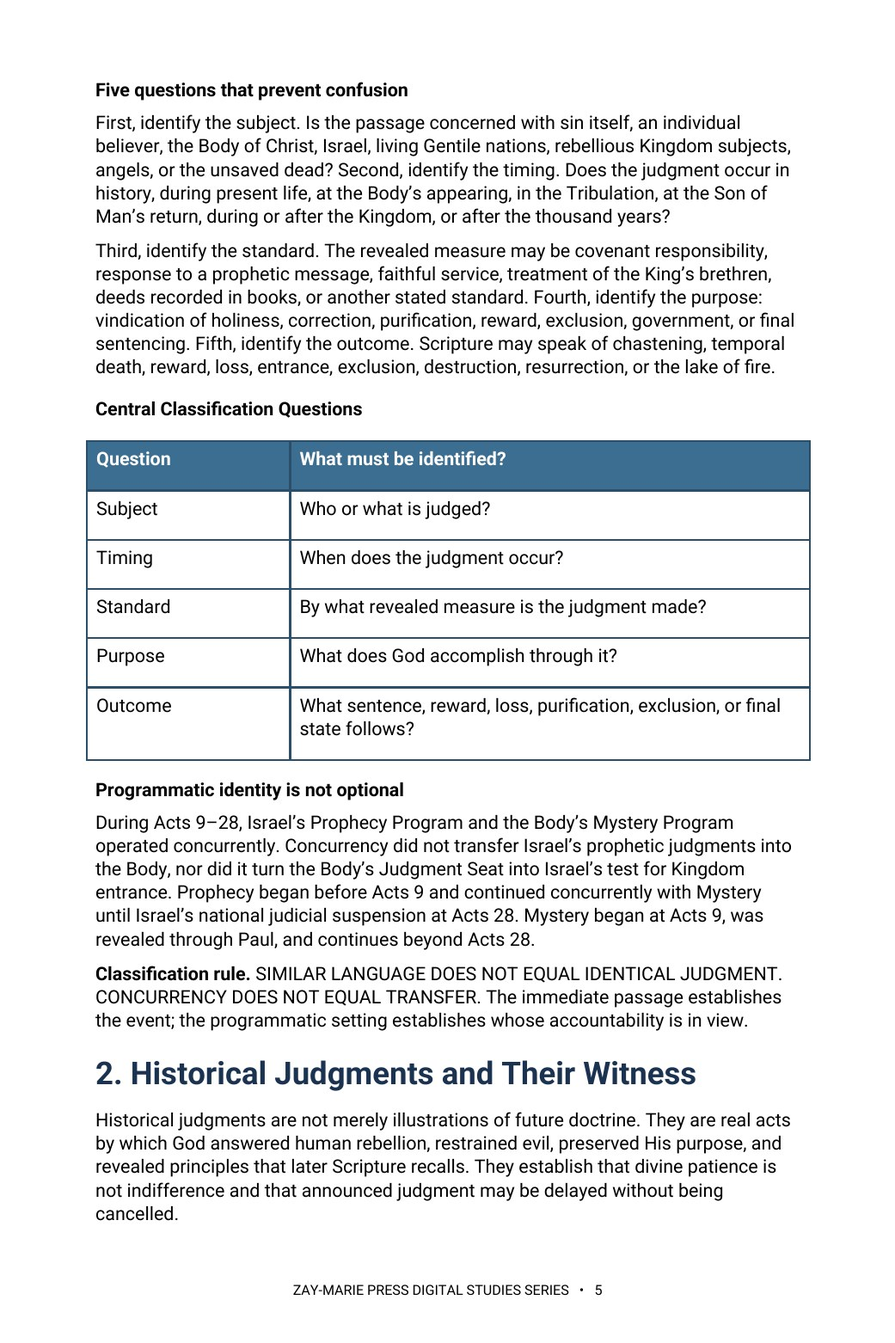
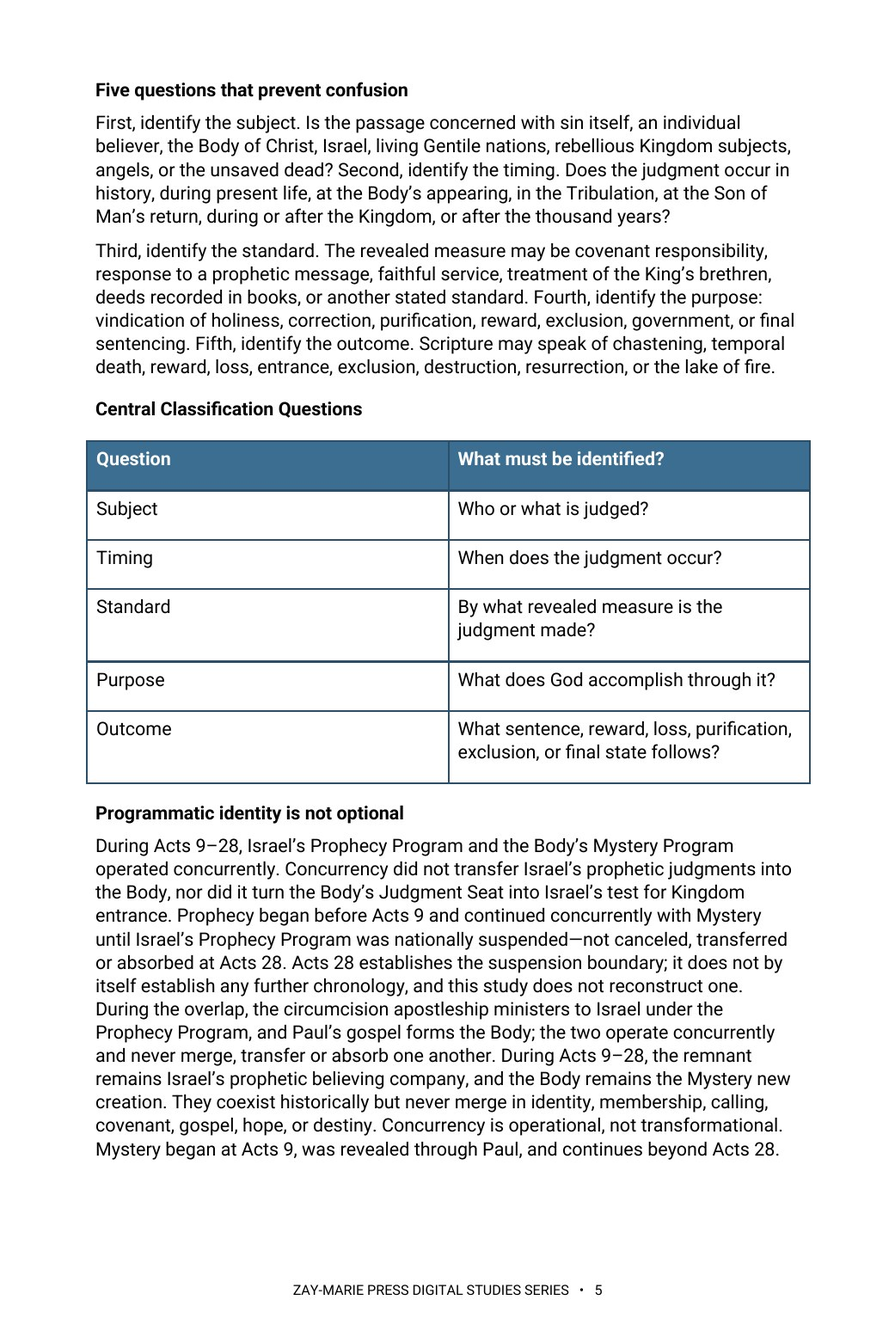
Study 31: rebuild at 10 pt, 19 pages; line-232 Rule 19 fix and retrofit wording; website counts and previews
Claude-Session: https://claude.ai/code/session_01HC7bs9KYP2scp4hCL6DkTp

Changed region(s): [[0.0922, 0.338, 0.8915, 0.9219]]

diff --git a/study-31-the-judgments-of-scripture.html b/study-31-the-judgments-of-scripture.html
@@ -2,12 +2,12 @@
 <html lang="en"><head><meta charset="utf-8"><meta name="viewport" content="width=device-width,initial-scale=1"><title>The Judgments of Scripture | Zay-Marie Press</title><meta name="description" content="Distinguish the major judgments of Scripture by their subjects, timing, standards, purposes, and outcomes."><link rel="stylesheet" href="styles.css?v=20260928-8"><link rel="icon" type="image/png" href="assets/zay-marie-press-favicon.png"><style>
 .study-detail-page{background:#fff;color:#252525}.detail-hero{background:linear-gradient(135deg,#f8f5ec,#e3ece2);padding:58px 0}.detail-hero-grid{display:grid;grid-template-columns:minmax(250px,.72fr) minmax(0,1.28fr);gap:58px;align-items:center}.detail-cover{max-width:390px;margin:auto}.detail-cover img{display:block;width:100%;height:auto;box-shadow:0 14px 36px rgba(8,45,69,.18)}.detail-hero h1{font-size:clamp(2.7rem,5vw,4.7rem);line-height:1.02;margin:8px 0 10px;color:#143823}.detail-subtitle{font-family:Georgia,serif;font-size:1.35rem;font-weight:700;color:#082d45;margin:0 0 7px}.detail-kicker{font-family:Georgia,serif;font-style:italic;font-size:1.05rem;color:#4a4a44;margin:0 0 22px}.detail-copy{font-size:1.08rem;line-height:1.65;max-width:760px}.detail-buyline{display:flex;align-items:center;gap:18px;flex-wrap:wrap;margin-top:25px}.detail-price{font-family:Georgia,serif;font-size:2rem;font-weight:700;color:#143823}.detail-format,.preview-card .page-no{font-family:Arial,sans-serif;font-size:.76rem;font-weight:700;letter-spacing:.1em;text-transform:uppercase;color:#176b3a}.detail-button{display:inline-block;background:#176b3a;color:#fff;padding:13px 22px;font-family:Arial,sans-serif;font-size:.8rem;font-weight:700;letter-spacing:.07em;text-transform:uppercase}.detail-button.pending{opacity:.72;cursor:default}.detail-section{padding:66px 0}.detail-section.soft{background:#f6f7f2}.detail-section.cream{background:#faf8f2}.detail-section h2{color:#143823;margin:6px 0 18px;font-size:clamp(2rem,3.4vw,3rem)}.detail-section .lead{max-width:920px;font-size:1.1rem;line-height:1.62}.study-distinction{max-width:920px;margin-top:28px;margin-bottom:28px;padding:26px 28px;background:#fff;border:1px solid #d8d1bf;border-left:4px solid #b8871c}.study-distinction h3{margin:0 0 10px;color:#143823}.study-distinction p{margin:0 0 14px;line-height:1.62}.study-distinction a{font-family:Arial,sans-serif;font-weight:700;color:#176b3a;text-decoration:none}.study-points{display:grid;grid-template-columns:repeat(3,1fr);gap:18px;margin-top:28px;margin-bottom:28px}.study-point,.scripture-card,.preview-card,.include-item{background:#fff;border:1px solid var(--line);text-align:left}.study-point{border-top:3px solid #176b3a;padding:22px}.study-point h3{color:#143823;margin:0 0 8px;font-size:1.2rem}.study-point p,.scripture-card p,.preview-card p,.include-item p{margin:0;line-height:1.55}.scripture-grid{display:grid;grid-template-columns:repeat(4,1fr);gap:14px;margin-top:24px;margin-bottom:24px}.scripture-card{padding:22px 20px;color:#143823}.scripture-card h3{margin:0 0 9px;font-family:Georgia,serif;font-size:1rem;line-height:1.35}.scripture-card p{font-size:.94rem;color:#45453f}.excerpt{max-width:900px;margin:28px auto;border-left:4px solid #b8871c;padding:10px 0 10px 28px}.excerpt blockquote{font-family:Georgia,serif;font-size:clamp(1.45rem,2.5vw,2rem);line-height:1.45;color:#143823;margin:0 0 16px}.excerpt p{line-height:1.6;margin:0}.preview-grid{display:grid;grid-template-columns:repeat(2,1fr);gap:20px;margin-top:28px;margin-bottom:28px}.preview-card{padding:18px;min-height:210px;box-shadow:0 7px 20px rgba(20,40,25,.05)}.preview-image-link{display:block;margin:0 0 18px}.preview-image-link img{display:block;width:100%;height:auto;border:1px solid #d8d1bf;box-shadow:0 8px 22px rgba(20,40,25,.1);transition:transform .18s ease,box-shadow .18s ease}.preview-image-link:hover img{transform:translateY(-2px);box-shadow:0 11px 28px rgba(20,40,25,.16)}.preview-card h3{color:#143823;margin:8px 0 10px}.preview-instruction{margin:10px 0 0;font-family:Arial,sans-serif;font-size:.78rem;letter-spacing:.04em;color:#5b5b55}.includes-grid{display:grid;grid-template-columns:repeat(4,1fr);gap:14px;margin-top:26px}.include-item{padding:22px 20px;color:#143823}.include-item h3{margin:0 0 9px;font-family:Arial,sans-serif;font-size:.86rem;line-height:1.35;letter-spacing:.02em}.include-item p{font-size:.94rem;color:#45453f}.final-buy{background:#082d45;color:#fff;border-top:4px solid #b8871c;padding:42px 48px;display:grid;grid-template-columns:1fr auto;gap:36px;align-items:center}.final-buy .eyebrow,.final-buy h2,.final-buy .detail-price{color:#fff}.final-buy h2{margin:7px 0 6px}.final-buy p{margin:0}.final-offer{text-align:center}.back-link{display:inline-block;margin-top:18px;color:#143823;font-family:Arial,sans-serif;font-weight:700;text-decoration:none}.preview-lightbox{position:fixed;inset:0;z-index:10000;display:none;align-items:flex-start;justify-content:center;background:rgba(8,22,16,.88);padding:24px;overflow:auto}.preview-lightbox.open{display:flex}.preview-lightbox img{display:block;width:auto;height:auto;max-width:none;box-shadow:0 18px 55px rgba(0,0,0,.4);background:#fff}.preview-lightbox-close{position:fixed;top:18px;right:24px;z-index:10001;width:46px;height:46px;border:1px solid rgba(255,255,255,.65);border-radius:50%;background:rgba(0,0,0,.55);color:#fff;font:32px/1 Arial,sans-serif;cursor:pointer}@media(max-width:900px){.detail-hero-grid{grid-template-columns:1fr;gap:34px}.detail-cover{max-width:330px}.study-points{grid-template-columns:repeat(2,1fr)}.scripture-grid,.includes-grid{grid-template-columns:repeat(2,1fr)}.preview-grid,.final-buy{grid-template-columns:1fr}.final-offer{text-align:left}}@media(max-width:560px){.detail-hero{padding:42px 0}.detail-section{padding:50px 0}.study-points,.scripture-grid,.includes-grid{grid-template-columns:1fr}.final-buy{padding:32px 24px}.detail-buyline{align-items:flex-start;flex-direction:column;gap:8px}.preview-lightbox{padding:58px 10px 24px}.preview-lightbox img{width:100%;max-width:100%;height:auto}}</style></head><body class="study-detail-page">
 <header class="site-header"><div class="wrap nav"><a class="logo" href="index.html" aria-label="Zay-Marie Press home"><img src="assets/zay-marie-press-logo-hq.png" alt="Zay-Marie Press" width="420" height="238"></a><button class="menu-toggle" type="button" aria-expanded="false" aria-controls="primary-nav">MENU</button><nav aria-label="Primary navigation" class="primary-nav" id="primary-nav"><a href="index.html">HOME</a><a href="books.html">BOOKS</a><a href="series.html">SERIES</a><a class="active" aria-current="page" href="digital-studies.html">DIGITAL STUDIES</a><a href="biblical-hermeneutics-course.html">COURSE</a><a href="about.html">ABOUT</a><a href="resources.html">RESOURCES</a><a href="contact.html">CONTACT</a></nav></div></header><main>
-<section class="detail-hero"><div class="wrap detail-hero-grid"><div class="detail-cover"><picture><source srcset="assets/study-31-cover.webp" type="image/webp"><img src="assets/study-31-cover.jpg" alt="The Judgments of Scripture - Study 31 cover"></picture></div><div><div class="eyebrow">STUDY 31 · DIGITAL STUDY</div><h1>The Judgments of Scripture</h1><p class="detail-subtitle">Their Subjects, Timing, Standards, Purposes, and Outcomes</p><p class="detail-kicker">A comparative biblical study designed to keep distinct judgments distinct</p><p class="detail-copy">Scripture presents many acts and occasions of divine judgment, but it does not combine them into one undifferentiated event. This study supplies a clear method for identifying who or what is judged, when the judgment occurs, the governing standard, its purpose, and its outcome.</p><p class="detail-copy">Compare historical judgments, the Cross, believer self-judgment and discipline, the Judgment Seat of Christ, Israel’s prophetic accountability, the nations, angels, Kingdom judgments, and the Great White Throne without transferring features from one passage to another.</p><div class="detail-buyline"><span class="detail-price">$5.99</span><span class="detail-format">Digital PDF · 18 Pages</span><span class="detail-button pending" aria-disabled="true">Checkout Coming Soon</span></div></div></div></section>
+<section class="detail-hero"><div class="wrap detail-hero-grid"><div class="detail-cover"><picture><source srcset="assets/study-31-cover.webp" type="image/webp"><img src="assets/study-31-cover.jpg" alt="The Judgments of Scripture - Study 31 cover"></picture></div><div><div class="eyebrow">STUDY 31 · DIGITAL STUDY</div><h1>The Judgments of Scripture</h1><p class="detail-subtitle">Their Subjects, Timing, Standards, Purposes, and Outcomes</p><p class="detail-kicker">A comparative biblical study designed to keep distinct judgments distinct</p><p class="detail-copy">Scripture presents many acts and occasions of divine judgment, but it does not combine them into one undifferentiated event. This study supplies a clear method for identifying who or what is judged, when the judgment occurs, the governing standard, its purpose, and its outcome.</p><p class="detail-copy">Compare historical judgments, the Cross, believer self-judgment and discipline, the Judgment Seat of Christ, Israel’s prophetic accountability, the nations, angels, Kingdom judgments, and the Great White Throne without transferring features from one passage to another.</p><div class="detail-buyline"><span class="detail-price">$5.99</span><span class="detail-format">Digital PDF · 19 Pages</span><span class="detail-button pending" aria-disabled="true">Checkout Coming Soon</span></div></div></div></section>
 <section class="detail-section"><div class="wrap"><div class="eyebrow">ABOUT THIS STUDY</div><h2>Why Must the Judgments Be Distinguished?</h2><p class="lead">The Judge is always righteous, but Scripture assigns different judgments to different subjects, times, standards, purposes, and outcomes. A judgment of living nations at the return of the Son of Man is not the final judgment of the dead after the thousand years. An evaluation for reward or loss is not a trial to determine whether Christ’s finished work was sufficient.</p><p class="lead">This study organizes the major judgment complexes of Scripture so readers can recognize genuine similarities without collapsing distinct events, audiences, or divine purposes.</p><p class="lead">This is not a study of crowns and rewards in their own passages, which Study 33 examines directly, nor of Paul’s own Day-of-Christ language, which Study 8 defines on its own terms, nor of the believer’s security under grace, which Study 46 argues from a different set of texts. Its task is broader: to classify every major judgment complex in Scripture by subject, time, standard, and outcome, so that no two of them are collapsed into a single undifferentiated “judgment.”</p><div class="study-distinction"><h3>How These Studies Relate</h3><p>Study 31 classifies Scripture’s judgments by their subjects, timing, standards, purposes, and outcomes.</p><p><a href="study-33-the-crowns-of-scripture.html">Study 33 — The Crowns of Scripture</a> Examine crowns and rewards in their own passages; this helps locate reward language within the right evaluation instead of treating every crown as salvation or condemnation.</p><p><a href="study-08-the-day-of-christ.html">Study 8 — The Day of Christ</a> Read Paul’s Day-of-Christ expressions before attaching an entire judgment scheme to them; the distinction keeps explicit wording and related future teaching in proper relation.</p><p><a href="study-46-secure-in-christ.html">Study 46 — Secure in Christ</a> See how the distinction between a lost reward and a lost standing, drawn here from 1 Corinthians 3:11–15 and 2 Timothy 2:12, secures the believer’s standing while keeping reward in its own place.</p><p class="connection-guide-link"><a href="study-connections.html#study-31">Explore the full connection guide for Study 31 →</a></p></div><div class="cross-strand-note"><p class="cross-strand-label">FROM THE PARABLES STRAND</p><p>The Sheep and the Goats narrates one of the judgments this study classifies — read it to see that judgment in its own setting.</p><p><a href="parable-31-the-sheep-and-the-goats.html">The Sheep and the Goats</a></p></div></div></section>
 <section class="detail-section soft"><div class="wrap"><div class="eyebrow">WHAT YOU’LL STUDY</div><h2>Use Five Questions to Identify Every Judgment</h2><div class="study-points"><div class="study-point"><h3>Subject</h3><p>Identify who or what is being judged before drawing conclusions from the passage.</p></div><div class="study-point"><h3>Timing</h3><p>Place each judgment within its stated historical, prophetic, or Mystery setting.</p></div><div class="study-point"><h3>Standard</h3><p>Determine the revealed measure by which the judgment is administered.</p></div><div class="study-point"><h3>Purpose</h3><p>Ask what God accomplishes through the judgment in its own context.</p></div><div class="study-point"><h3>Outcome</h3><p>Trace the sentence, reward, loss, discipline, exclusion, or final state that follows.</p></div><div class="study-point"><h3>Programmatic Setting</h3><p>Place each judgment passage within Prophecy or Mystery by the subject, timing, and standard the text states.</p></div></div></div></section>
 <section class="detail-section cream"><div class="wrap"><div class="eyebrow">KEY SCRIPTURES</div><h2>Compare the Major Judgment Passages</h2><div class="scripture-grid"><div class="scripture-card"><h3>Romans 3:21–26</h3><p>God’s righteousness displayed at the Cross, where sin was judged in Christ.</p></div><div class="scripture-card"><h3>1 Corinthians 3:10–15</h3><p>The believer’s work tested for reward or loss while salvation remains secure.</p></div><div class="scripture-card"><h3>2 Corinthians 5:10</h3><p>The Body’s future appearance before the Judgment Seat of Christ.</p></div><div class="scripture-card"><h3>Matthew 25:31–46</h3><p>Living nations judged when the Son of Man comes in glory.</p></div><div class="scripture-card"><h3>Daniel 7 and 12</h3><p>Prophetic judgment, resurrection, and Kingdom accountability.</p></div><div class="scripture-card"><h3>1 Corinthians 6:2–3</h3><p>The future judgment of the world and angels.</p></div><div class="scripture-card"><h3>Revelation 20:11–15</h3><p>The Great White Throne after the thousand years.</p></div><div class="scripture-card"><h3>Romans 8:1</h3><p>No condemnation for those who are in Christ Jesus.</p></div></div></div></section>
 <section class="detail-section"><div class="wrap"><div class="eyebrow">FROM THE STUDY</div><h2>Similar Language Does Not Establish an Identical Judgment</h2><div class="excerpt"><blockquote>“Never identify a judgment by one shared word alone.”</blockquote><p>Fire, books, works, appearing, reward, and judgment may occur in different passages without making those passages one event. The immediate context and programmatic setting establish whose accountability is in view.</p></div></div></section>
 <section class="detail-section soft"><div class="wrap"><div class="eyebrow">A LOOK INSIDE</div><h2>Preview the Study Before You Purchase</h2><p class="preview-instruction">Click any page to enlarge it for reading.</p><div class="preview-grid"><div class="preview-card"><a class="preview-image-link" data-preview-lightbox href="assets/study-31-page-2.jpg"><img src="assets/study-31-page-2.jpg" alt="Study 31 interior preview — page 2, table of contents"></a><div class="page-no">Page 2</div><h3>Table of Contents</h3><p>See the full structure of the study, from the introduction through the final synthesis.</p></div><div class="preview-card"><a class="preview-image-link" data-preview-lightbox href="assets/study-31-page-3.jpg"><img src="assets/study-31-page-3.jpg" alt="Study 31 interior preview — page 3, what you will learn and study outline"></a><div class="page-no">Page 3</div><h3>What You Will Learn</h3><p>Begin with the outcomes you will work toward and the passages the study traces, from the Cross to the Great White Throne.</p></div><div class="preview-card"><a class="preview-image-link" data-preview-lightbox href="assets/study-31-page-5.jpg"><img src="assets/study-31-page-5.jpg" alt="Study 31 interior preview — page 5, five controlling questions and classification table"></a><div class="page-no">Page 5</div><h3>The Five Questions</h3><p>See the five controlling questions and the classification table the study applies to every judgment passage.</p></div></div></div></section>
-<section class="detail-section"><div class="wrap"><div class="eyebrow">WHAT’S INCLUDED</div><h2>A Focused Study Built for<br>Understanding and Teaching</h2><div class="includes-grid"><div class="include-item"><h3>18-Page Biblical Study</h3><p>A detailed comparative treatment without collapsing distinct judgment passages.</p></div><div class="include-item"><h3>Ten Teaching Sections</h3><p>Move from historical judgment and the Cross through final judgment.</p></div><div class="include-item"><h3>Five-Question Method</h3><p>Identify subject, timing, standard, purpose, and outcome in every passage.</p></div><div class="include-item"><h3>Comparative Tables</h3><p>Review the major judgments through clear, high-contrast reference charts.</p></div><div class="include-item"><h3>Scripture-Tracing Exercise</h3><p>Classify central judgment passages using the same diagnostic questions.</p></div><div class="include-item"><h3>Review Questions</h3><p>Test both biblical knowledge and the ability to preserve distinctions.</p></div><div class="include-item"><h3>Teaching Outline</h3><p>A ready outline for presenting the doctrine clearly and responsibly.</p></div><div class="include-item"><h3>Guided Further Study</h3><p>Instructions and grouped passages help readers extend the study independently.</p></div></div></div></section>
-<section class="detail-section cream"><div class="wrap"><div class="final-buy"><div><div class="eyebrow">STUDY 31 · DIGITAL STUDY</div><h2>The Judgments of Scripture</h2><p>Digital PDF · 18 Pages · For personal use</p></div><div class="final-offer"><div class="detail-price">$5.99</div><span class="detail-button pending" aria-disabled="true">Checkout Coming Soon</span></div></div><a class="back-link" href="digital-studies.html">← Back to All Digital Studies</a></div></section><section class="study-method-course-bridge"><div class="wrap"><div class="study-method-course-panel"><div><div class="eyebrow">BUILD THE INTERPRETIVE METHOD</div><h2>Want More Than a Focused Study?</h2><p>Digital Studies examine particular biblical subjects and difficult passages. The 40-lesson Biblical Hermeneutics course teaches a complete, repeatable method for establishing meaning in context, determining proper assignment, and making responsible application.</p></div><a class="btn btn-primary" href="biblical-hermeneutics-course.html">BIBLICAL HERMENEUTICS COURSE</a></div></div></section></main>
+<section class="detail-section"><div class="wrap"><div class="eyebrow">WHAT’S INCLUDED</div><h2>A Focused Study Built for<br>Understanding and Teaching</h2><div class="includes-grid"><div class="include-item"><h3>19-Page Biblical Study</h3><p>A detailed comparative treatment without collapsing distinct judgment passages.</p></div><div class="include-item"><h3>Ten Teaching Sections</h3><p>Move from historical judgment and the Cross through final judgment.</p></div><div class="include-item"><h3>Five-Question Method</h3><p>Identify subject, timing, standard, purpose, and outcome in every passage.</p></div><div class="include-item"><h3>Comparative Tables</h3><p>Review the major judgments through clear, high-contrast reference charts.</p></div><div class="include-item"><h3>Scripture-Tracing Exercise</h3><p>Classify central judgment passages using the same diagnostic questions.</p></div><div class="include-item"><h3>Review Questions</h3><p>Test both biblical knowledge and the ability to preserve distinctions.</p></div><div class="include-item"><h3>Teaching Outline</h3><p>A ready outline for presenting the doctrine clearly and responsibly.</p></div><div class="include-item"><h3>Guided Further Study</h3><p>Instructions and grouped passages help readers extend the study independently.</p></div></div></div></section>
+<section class="detail-section cream"><div class="wrap"><div class="final-buy"><div><div class="eyebrow">STUDY 31 · DIGITAL STUDY</div><h2>The Judgments of Scripture</h2><p>Digital PDF · 19 Pages · For personal use</p></div><div class="final-offer"><div class="detail-price">$5.99</div><span class="detail-button pending" aria-disabled="true">Checkout Coming Soon</span></div></div><a class="back-link" href="digital-studies.html">← Back to All Digital Studies</a></div></section><section class="study-method-course-bridge"><div class="wrap"><div class="study-method-course-panel"><div><div class="eyebrow">BUILD THE INTERPRETIVE METHOD</div><h2>Want More Than a Focused Study?</h2><p>Digital Studies examine particular biblical subjects and difficult passages. The 40-lesson Biblical Hermeneutics course teaches a complete, repeatable method for establishing meaning in context, determining proper assignment, and making responsible application.</p></div><a class="btn btn-primary" href="biblical-hermeneutics-course.html">BIBLICAL HERMENEUTICS COURSE</a></div></div></section></main>
 <div class="preview-lightbox" id="preview-lightbox" role="dialog" aria-modal="true" aria-label="Expanded study preview"><button class="preview-lightbox-close" type="button" aria-label="Close preview">×</button><img id="preview-lightbox-image" alt=""></div><footer class="site-footer"><div class="wrap footer-grid"><div class="footer-about"><h3>Zay-Marie Press</h3><p class="footer-tagline"><em>Where the Bible Means What It Says.</em></p><p>Zay-Marie Press is a Christian theological publisher dedicated to producing doctrinally precise, carefully structured biblical resources that equip pastors, teachers, and serious students with clarity, depth, and Scripture-anchored truth.</p><p><a href="https://zaymariepress.com">zaymariepress.com</a><br><a href="mailto:info@zaymariepress.com">info@zaymariepress.com</a></p></div><div class="footer-column"><h3>Explore</h3><div class="footer-links-stacked"><a href="books.html">Books</a><br><a href="series.html">Series</a><br><a href="biblical-hermeneutics-course.html">Course</a><br><a href="digital-studies.html">Digital Studies</a><br><a href="resources.html">Resources</a><br><a href="bible-book-summaries.html">Bible Book Summaries</a><br><a href="doctrinal-packets.html">Doctrinal Packets</a><br><a href="historical-drift.html">Historical Drift</a><br><a href="about.html">About</a><br><a href="contact.html">Contact</a></div></div><div class="footer-column"><h3>Reader Support</h3><div class="footer-links-stacked"><a href="reader-support.html#faq">FAQ</a><br><a href="reader-support.html#shipping-returns">Shipping &amp; Returns</a><br><a href="reader-support.html#digital-downloads">Digital Downloads</a><br><a href="reader-support.html#contact-support">Contact Support</a></div></div><div class="footer-column"><h3>Acts Overlap</h3><p><strong>Acts Overlap Theology Series</strong></p><p><em>Two Distinct Streams. One Overlap.</em></p><p><a href="series.html">Series Overview</a></p></div></div><div class="wrap footer-bottom">© 2026 Zay-Marie Press. All rights reserved.</div></footer><script src="site.js"></script><script>const lightbox=document.getElementById('preview-lightbox'),lightboxImage=document.getElementById('preview-lightbox-image'),closeLightbox=()=>{lightbox.classList.remove('open');lightboxImage.src='';};document.querySelectorAll('[data-preview-lightbox]').forEach(link=>link.addEventListener('click',event=>{event.preventDefault();lightboxImage.src=link.href;lightboxImage.alt=link.querySelector('img').alt;lightbox.classList.add('open');}));document.querySelector('.preview-lightbox-close').addEventListener('click',closeLightbox);lightbox.addEventListener('click',event=>{if(event.target===lightbox)closeLightbox();});document.addEventListener('keydown',event=>{if(event.key==='Escape')closeLightbox();});</script></body></html>

diff --git a/site.js b/site.js
@@ -62,7 +62,7 @@ const resourceModal=document.querySelector('#resource-modal'), resourceModalTitl
 if(resourceModal&&resourceModalTriggers.length){const closeResourceModal=()=>{resourceModal.hidden=true;document.body.classList.remove('resource-modal-open');lastResourceTrigger?.focus();};resourceModalTriggers.forEach(trigger=>trigger.addEventListener('click',()=>{lastResourceTrigger=trigger;if(resourceModalTitle)resourceModalTitle.textContent=trigger.dataset.title||'Resource';if(resourceModalDescription)resourceModalDescription.textContent=trigger.dataset.description||'';if(resourceModalLink){resourceModalLink.href=trigger.dataset.href||'#';resourceModalLink.textContent=trigger.dataset.linkText||'OPEN RESOURCE';}resourceModal.hidden=false;document.body.classList.add('resource-modal-open');resourceModalClose?.focus();}));resourceModalClose?.addEventListener('click',closeResourceModal);resourceModal.addEventListener('click',e=>{if(e.target===resourceModal)closeResourceModal();});document.addEventListener('keydown',e=>{if(e.key==='Escape'&&!resourceModal.hidden)closeResourceModal();});}
 
 /* Display the verified final-PDF page count at the primary purchase decision point. */
-const digitalStudyPageCounts={1:20,2:19,3:16,4:17,5:15,6:15,7:14,8:13,9:15,10:20,11:15,12:15,13:18,14:15,15:15,16:16,17:17,18:18,19:18,20:18,21:16,22:15,23:14,24:16,25:17,26:16,27:16,28:17,29:19,30:18,31:18,32:19,33:18,34:20,35:22,36:20,37:21,38:22,39:22,40:23,41:21,42:17,43:17,44:19,45:19,46:20,47:19,48:18,49:20,50:19,51:20,52:19,53:19,54:17,55:20,56:20,57:20,58:19,59:20,60:15,61:16,62:18,63:17,64:17,65:16,66:16,67:17,68:16,69:17,70:17,71:16};
+const digitalStudyPageCounts={1:20,2:19,3:16,4:17,5:15,6:15,7:14,8:13,9:15,10:20,11:15,12:15,13:18,14:15,15:15,16:16,17:17,18:18,19:18,20:18,21:16,22:15,23:14,24:16,25:17,26:16,27:16,28:17,29:19,30:18,31:19,32:19,33:18,34:20,35:22,36:20,37:21,38:22,39:22,40:23,41:21,42:17,43:17,44:19,45:19,46:20,47:19,48:18,49:20,50:19,51:20,52:19,53:19,54:17,55:20,56:20,57:20,58:19,59:20,60:15,61:16,62:18,63:17,64:17,65:16,66:16,67:17,68:16,69:17,70:17,71:16};
 const digitalStudyMatch=window.location.pathname.match(/\/study-(\d+)-/i);
 const digitalStudyFormat=document.querySelector('.detail-hero .detail-format');
 if(digitalStudyMatch&&digitalStudyFormat){const studyNumber=Number(digitalStudyMatch[1]),pageCount=digitalStudyPageCounts[studyNumber];if(pageCount)digitalStudyFormat.textContent=`Digital PDF · ${pageCount} Pages`;}

diff --git a/CLAUDE.md b/CLAUDE.md
@@ -25,7 +25,7 @@ These are kept in the repo at `controlling-documents/` and are the current versi
 - As of v1.52 (publisher directive, 2026-10-04), §10 fixes the **interior footer** as a single centered line, “ZAY-MARIE PRESS DIGITAL STUDIES SERIES • N” (N is the page number), Roboto, on the same baseline on every interior page, with no footer on the cover, written into this file in the same pass (Master Standard §10 and §22). Studies rebuilt from the Study 52 geometry already carry it (measured centered at the page midpoint). In every study check (Step 1), confirm the footer is centered and on one baseline.
 **`controlling-documents/Digital_Studies_Relationship_Map_v1.39.md`** — records each study's distinct subject, its related studies, the eight priced six-study collections, the Paul's Missionary Journeys cross-reference map, and the five primary catalog categories (currently version 1.39, covers Studies 1–71; update it as new studies publish, bump the version number, rename the file to match, and log the change in its own version-history table — mirroring the Master Standard's `_vX.Y` filename convention). Check a proposed topic against it before recommending or writing a new study. (2026-09-28: the file was missing from this repo despite this note referencing it; replaced from the publisher's copy and bumped v1.15→v1.25 in the same pass. If this note ever again points to a version not present under `controlling-documents/`, ask the publisher for a copy rather than proceeding without the check.)
 - **`controlling-documents/Digital_Studies_Category_Standard_v1.1.md`** — FINAL and binding (publisher, 2026-10-01): the rules for the five primary catalog categories (Foundations, Israel & Prophecy, Body of Christ, Passages, Doctrinal Themes), the ordered decision procedure for new studies, the precedents, all 71 fixed assignments, and the cover-label form for each category. Read it before placing any card or cover label. Do not ask the publisher where a study belongs; apply the procedure and state the result. Only the publisher changes a ruling; then bump this Standard's version and filename, re-letter the cover, and update the Relationship Map.
-- **`controlling-documents/Doctrinal_Upgrade_Retrofit_Plan_v1.127.md`** — working tracker for retrofitting Studies 1–59 to the 2026-10-02 doctrinal upgrade (Framework/PAM v1.1, Master Standard v1.40, Rules 7–17): withdrawn-wording search keys, impact tiers, waves and the per-study method. Read it before continuing the retrofit in any session; update status, bump the version and rename the file as work proceeds.
+- **`controlling-documents/Doctrinal_Upgrade_Retrofit_Plan_v1.128.md`** — working tracker for retrofitting Studies 1–59 to the 2026-10-02 doctrinal upgrade (Framework/PAM v1.1, Master Standard v1.40, Rules 7–17): withdrawn-wording search keys, impact tiers, waves and the per-study method. Read it before continuing the retrofit in any session; update status, bump the version and rename the file as work proceeds.
 - **`controlling-documents/Doctrinal_Packet_Standard_v0.3.md`** — Doctrinal Packet Standard (DRAFT; §7 approved). Governs the separate Doctrinal Packets product strand (5-page interpretive PDFs per Bible book — a print-friendly cover as page 1 plus 4 content pages, $2.99, KJV, pilot: Genesis, live at `packet-genesis.html`, hub `doctrinal-packets.html`; site pages say "5 Pages", cover styles live in `packets.css`, Old Testament blue and New Testament soft pale green, hub listed in Bible order). **Preview rule (publisher directive, 2026-09-29, packets only):** previews show about one page's worth in two cropped views (top of page 1 through the anchor texts; the chart section) — never the exegesis, architecture, Mystery contrast, logic chain, outline, or closing. Master Standard §16/§17 still govern Digital Studies. Bump the version and rename the file as the Standard is finalized.
 - **`controlling-documents/Preview_Page_Spoiler_Retrofit_Audit_v1.4.md`** — working tracker for the Studies 1–60 preview-page conclusion-spoiler retrofit (see the section below). Read it before continuing that audit in any session; update its status fields and changelog, bump the version, and rename the file to match as the audit proceeds — same `_vX.Y` convention as the other controlling documents. As of v1.1, the website-side half was DONE: all 60 studies' "What You'll Study" text was judged against the rule (methodology documented in the file) and 22 points across 11 studies were rewritten and pushed; an unrelated Study 22 content bug (Study 21's content had leaked into it) was also found and fixed. As of v1.2, the publisher supplied Studies 1–60's interior production PDFs and the interior-PDF half was also surveyed (read-only): 10 studies (37, 41, 45, 47, 48, 49, 51, 52, 53, 54) were found to have at least one interior "What You Will Learn" violation, 50 studies were confirmed compliant, and the orphaned `assets/study-45-sanctification-under-grace.docx` (removed from the repo per the publisher in v1.0) was confirmed word-for-word identical to Study 45's actual production interior PDF content. As of v1.3, the publisher supplied editable DOCX sources for all 10 violating studies; all 15 violating points were rewritten and approved, delivered as corrected final PDFs, and — along the way — a second defect was found and fixed (Studies 47 and 48's source DOCX still had an unintegrated cover placeholder despite both being long-published live with real covers; fixed by inserting the existing approved cover art). The website's "What You Will Learn" preview image (`study-NN-page-3.jpg`) was regenerated from the corrected content for all 10 studies and pushed to `main` (commit `cea1859`), verified against a fresh clone. **The website side of this audit is now fully compliant for all 60 studies.** Outstanding: the publisher's purchasable interior PDF files themselves have corrected versions delivered, but distribution to existing purchasers was decided by the publisher on 2026-09-29: silent swap of the files behind the existing downloads, no reissue notice (recorded in the v1.4 changelog entry; the product files are not in this repo).
 

diff --git a/controlling-documents/Doctrinal_Upgrade_Retrofit_Plan_v1.128.md b/controlling-documents/Doctrinal_Upgrade_Retrofit_Plan_v1.128.md
@@ -220,3 +220,4 @@ Working tracker for correcting published studies to the Framework/PAM v1.1, Mast
 - v1.125 (2026-10-04): Study 20 Scripture-Tracing exercise converted from the blank four-column grid to the standard KJV table (Verse, KJV text, What to observe), publisher-approved: nine rows, quoted verses chosen per row, every quotation fetched from bible-api.com (KJV) and matching the known wording; the nine 'What to observe' cues drafted as text-bound prompts and approved; instruction line kept above the table with a one-sentence lead-in. 18 pages (was 15). The study has no Final Synthesis heading, so the layout-only keep-with-next for the imprint runs from the Guided Further Study heading (keepimp.py now takes KEEPFROM). site.js 20:18; previews 2, 3, 4 re-rendered. Held-back KJV items remaining: 21, 25, 28.
 - v1.126 (2026-10-04): Publisher ruling: option 1 on the held-back KJV table item. Studies 19 and 20 stay as converted to the KJV table form; Studies 21, 25 and 28 stay as built (their Scripture-Tracing exercises are not converted). Reason recorded: the Master Standard's Study 52 note says Studies 1–51 are not retrofitted to that pattern, so the conversion is not required; it had been carried as a held-back Wave 5 item. Item closed by choice. Remaining Wave 5 items: Study 31 line 232; Study 58 hero eyebrow; Study 43 page-8 preview; Study 44 'Israel’s Acts-era signs' ruling; Study 48 section 12 TOC wrap; Study 50 Section 5.1 'Shared Ground' / 2 Thess 2:13–14; Study 47 Romans 15:27 sentence and KJV tables in 47/48; Study 61 PDF-only retrofit awaiting PDF; the build-tools question.
 - v1.127 (2026-10-04): Study 58 hero eyebrow changed from 'STUDY 58 · BIBLICAL INTERPRETATION' (retired label) to 'STUDY 58 · DIGITAL STUDY', publisher-approved; the catalog card already read 'Study 58 · Digital Study'. The free monograph page's own 'FREE MONOGRAPH · BIBLICAL INTERPRETATION' eyebrow and Study 4's body text were left as is. Item closed.
+- v1.128 (2026-10-04): Study 31 rebuilt in Roboto at 10 pt on the current page, 19 pages (was 18), from the publisher's older 'FINAL Roboto Source' DOCX (the v1.41 retrofitted DOCX was not available), with the retrofit re-applied in new wording, publisher-approved on review. Line 232 (Rule 19): 'provides the ground of salvation' replaced by 'bears the judicial consequences of sin (Rom. 5:8–9; Col. 2:13–15)'; the other finished-work lines stay KEEP (v1.53). Also: lead-in standardized; the Framework/PAM sentence replaced by a distinct-programs / audience-markers sentence; 'Acts Overlap framework' and 'five-question framework' reworded; Acts 28 'national judicial suspension' conformed in body and Key Distinctions with the boundary sentence; overlap and Rule 17 sentences added; a Body-absent-from-the-Day-of-the-Lord sentence added after the Matthew 24–25 paragraph; reader-facing anchors for Colossians 3:23–25 and for 2 Peter and Jude; Teaching Outline numbered. The v1.41 Galatians 3 sentence was not re-added (this source does not discuss Galatians 3 in the sections). Wording of the added sentences may differ from the previously published v1.41 interior. Previews 2, 3, 5 re-rendered; site.js 31:19. Wave 5 item 'Study 31 line 232' closed.

diff --git a/controlling-documents/Digital_Studies_PAM_Audit_v1.222.md b/controlling-documents/Digital_Studies_PAM_Audit_v1.222.md
@@ -451,3 +451,4 @@ Study 15 PDF not yet supplied. Typography: none of Studies 2, 3, 6, 8 is in EB G
 - v1.219 (2026-10-04): Study 20 Scripture-Tracing converted to a KJV table, 18 pages (see Retrofit Plan v1.125).
 - v1.220 (2026-10-04): Held-back KJV table item closed by publisher choice; Studies 21, 25, 28 stay as built (see Retrofit Plan v1.126).
 - v1.221 (2026-10-04): Study 58 hero eyebrow set to the standard form (see Retrofit Plan v1.127).
+- v1.222 (2026-10-04): Study 31 rebuilt at 10 pt from the older source with the retrofit re-applied and the line-232 Rule 19 fix, 19 pages (see Retrofit Plan v1.128).
